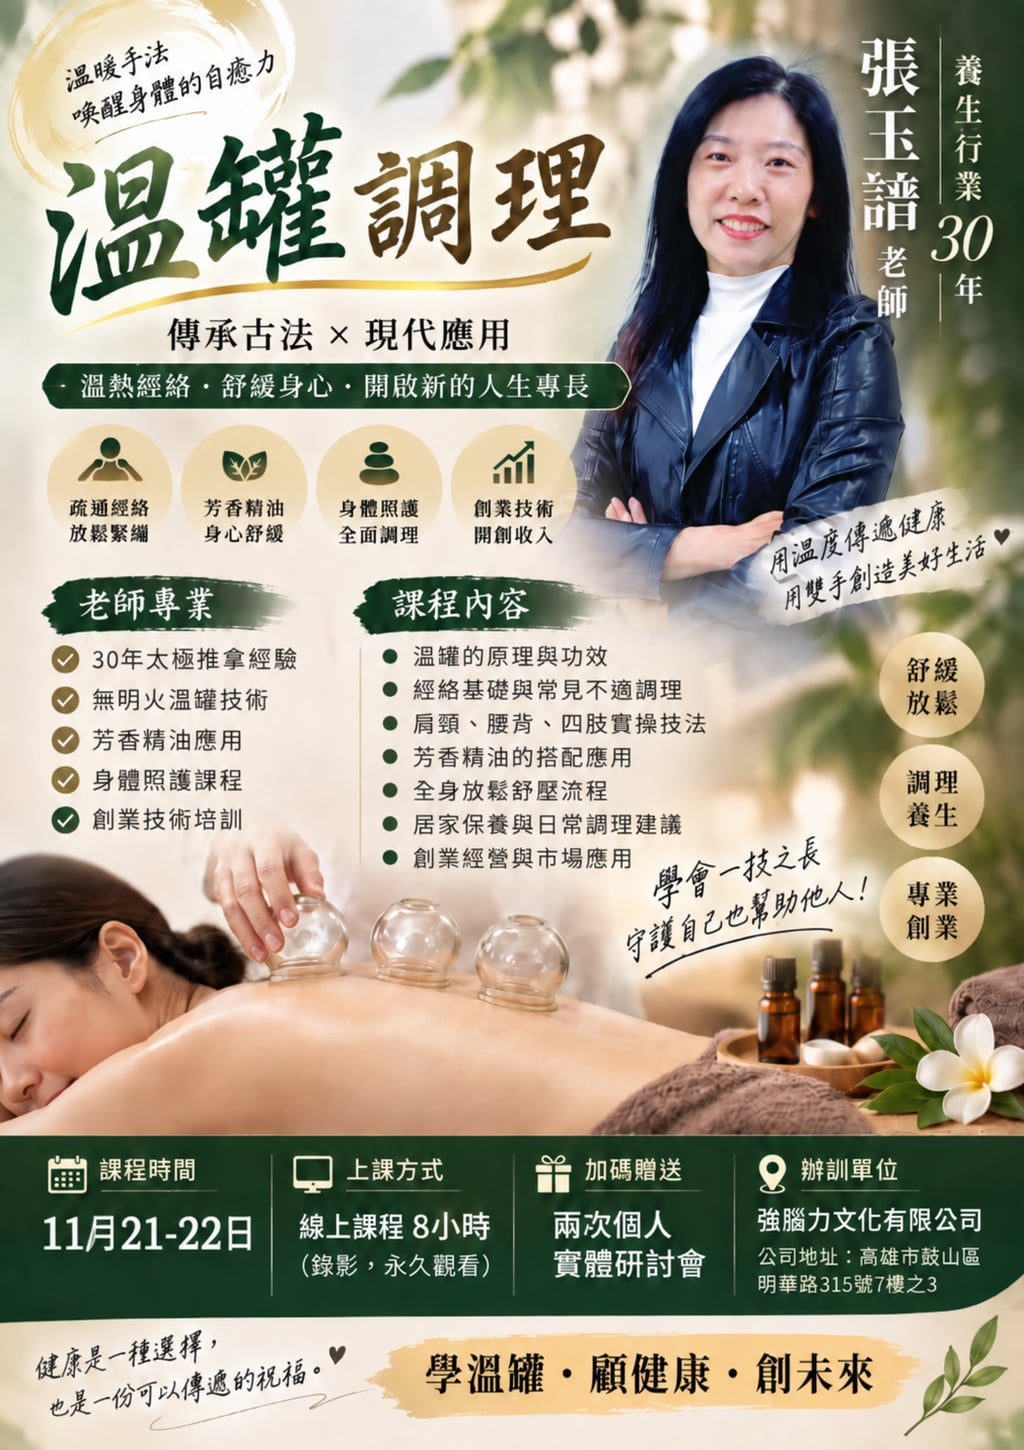
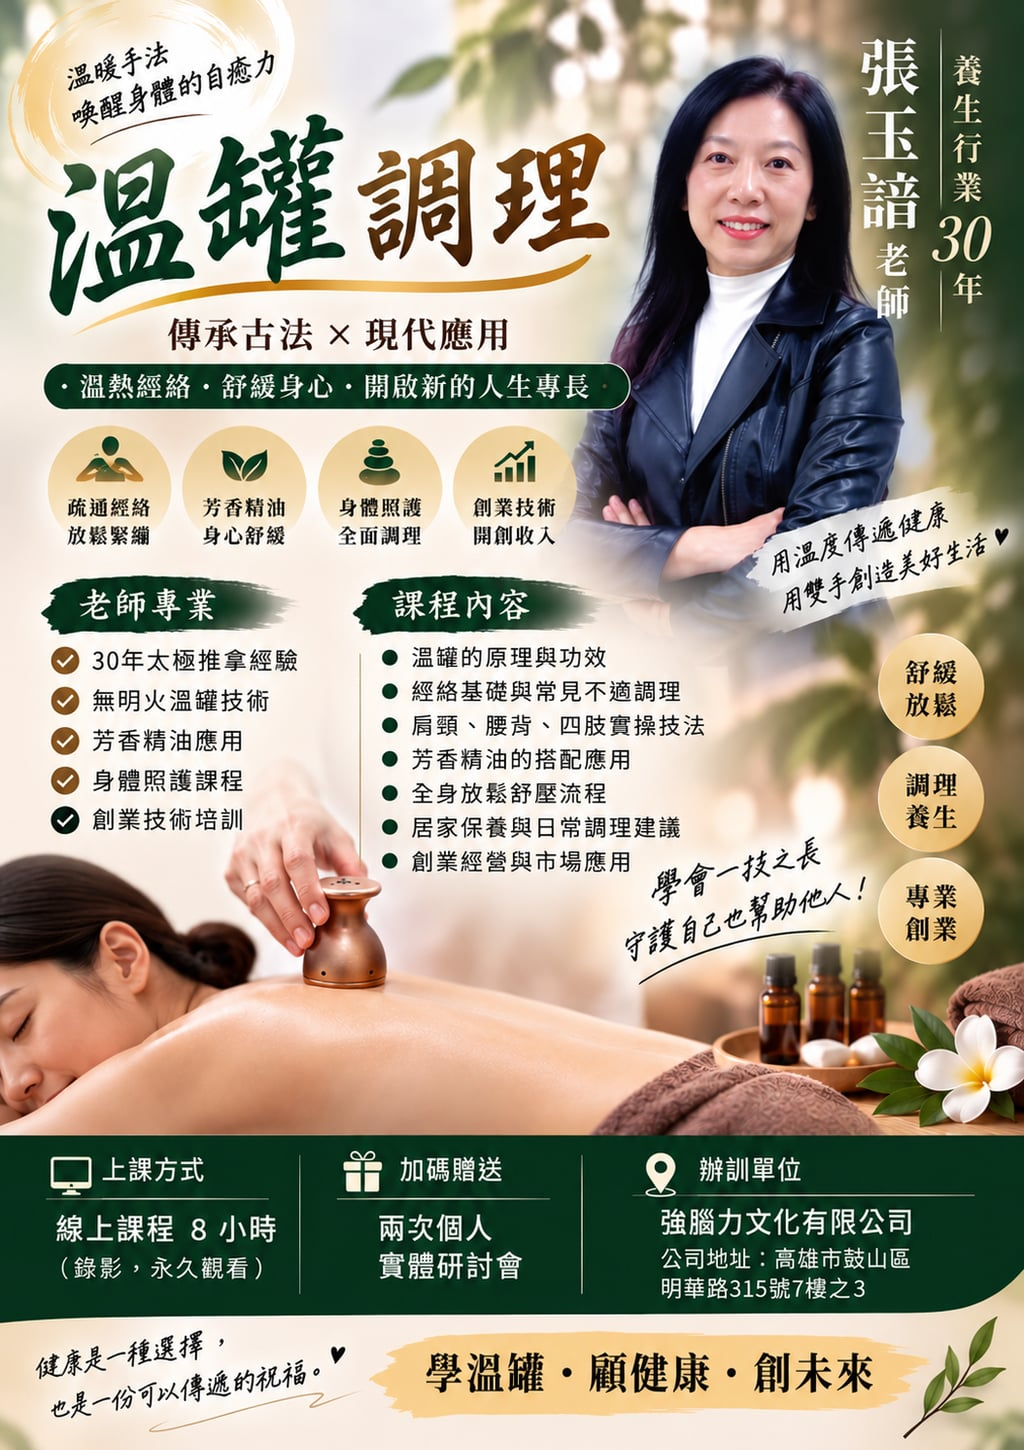
溫罐報名表換老闆 2026-10-16 新版海報（無日期欄）＋alt 同步（老闆原話「幫我把這張圖片放上去溫罐老師」）

diff --git a/funv-apply-cupping.html b/funv-apply-cupping.html
@@ -168,7 +168,7 @@ fieldset.f legend{padding:0;}
   <!-- 第 1 步：資格與準備 -->
   <section class="step on" id="step1" data-title="資格與準備">
     <figure class="poster">
-      <img src="img-funv-cupping-poster.jpg" alt="溫罐調理 課程海報（講師張玉諳老師，11月21-22日）" width="1024" height="1450" loading="eager" decoding="async">
+      <img src="img-funv-cupping-poster.jpg" alt="溫罐調理 課程海報（講師張玉諳老師）" width="1024" height="1450" loading="eager" decoding="async">
     </figure>
 
     <figure class="poster">
